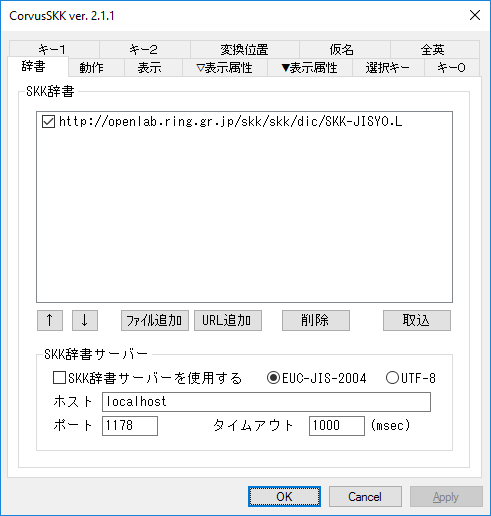
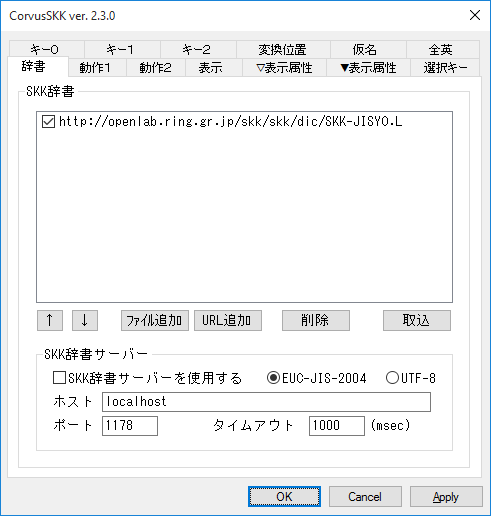
2.3.0
・SKK辞書の検索方法の改善を図り、取込済SKK辞書のファイル名を変更しました。
　変更前の取込済SKK辞書が存在する場合は自動的に変更後の取込済SKK辞書が生成されるので、再度の取込処理は必要ありません。
　Luaのスクリプトファイル(init.lua)で、crvmgr.search_skk_dictionary関数に引数を追加しました。カスタマイズされている場合は更新をお願いします。

　変更前
　　skkdict.dic
　　skkdict.idx
　変更後
　　skkdict.txt

・設定ダイアログに「動作２」タブを追加し、オプション「複数補完/動的複数補完の表示数」を追加しました。
　複数補完、複数動的補完での1ページあたりの候補数を指定します。
　デフォルト値は3です。

diff --git a/common/version.h b/common/version.h
@@ -10,12 +10,12 @@
 #define TEXTSERVICE_DESC	TEXTSERVICE_NAME L"_DEBUG"
 #endif
 
-#define TEXTSERVICE_VER		L"2.2.6"
+#define TEXTSERVICE_VER		L"2.3.0"
 
 //for resource
 #define RC_AUTHOR			"nathancorvussolis"
 #define RC_PRODUCT			"CorvusSKK"
-#define RC_VERSION			"2.2.6"
-#define RC_VERSION_D		2,2,6,0
+#define RC_VERSION			"2.3.0"
+#define RC_VERSION_D		2,3,0,0
 
 #endif
